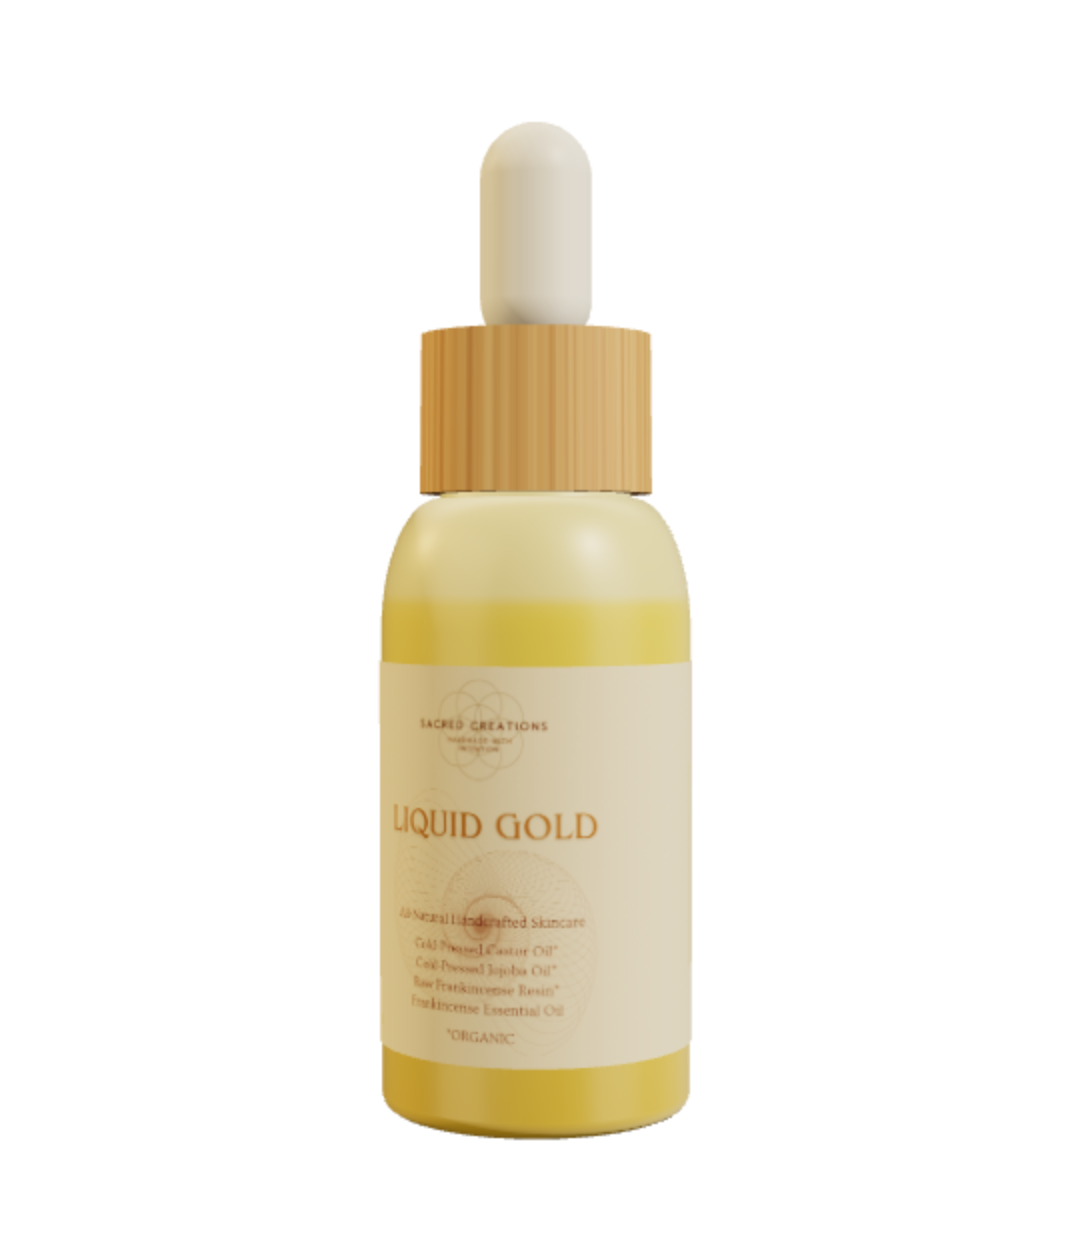
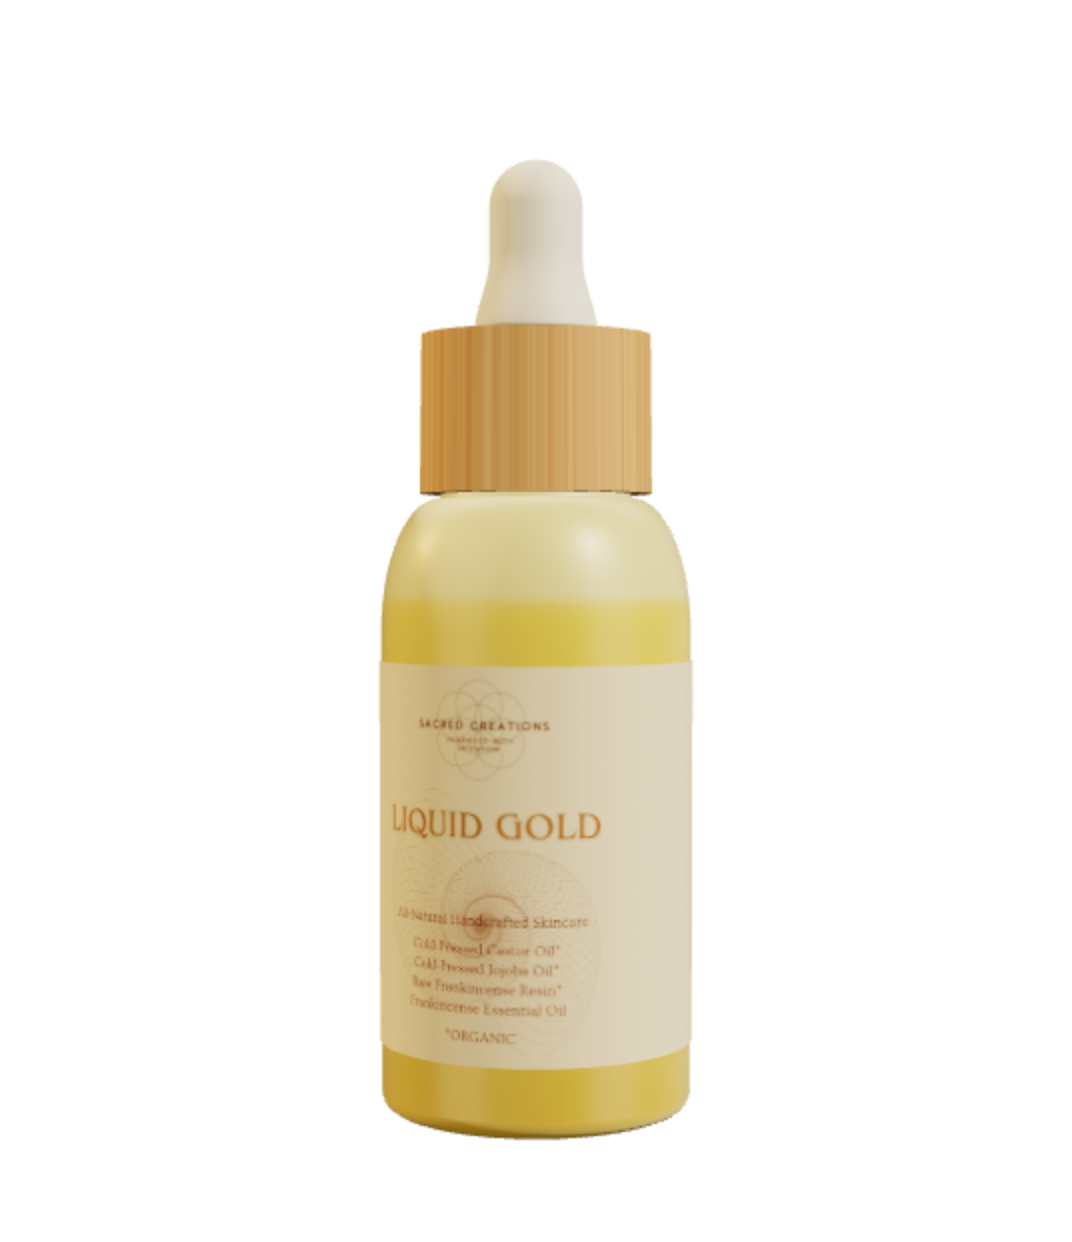
Real dropper bulb shape and tap-to-turn 3D on phones
Bulb is now a lathe measured from the product photo (flared base, slim
body, round top) instead of a capsule. Phones show the poster with a
Turn it in 3D button that loads the scene on demand; sideways swipes
turn the bottle and vertical swipes still scroll.

Claude-Session: https://claude.ai/code/session_01WmGr7QLLCLSmy45GpBi3JL

Changed region(s): [[0.431, 0.0918, 0.5541, 0.2754], [0.4618, 0.6425, 0.5541, 0.6731], [0.3694, 0.6425, 0.431, 0.6731]]

diff --git a/components/three/BottleShowcase.tsx b/components/three/BottleShowcase.tsx
@@ -9,13 +9,11 @@ import { showcaseState } from "./showcaseState";
 
 const BottleScene = dynamic(() => import("./BottleScene"), { ssr: false });
 
-function canRun3D() {
-  if (window.matchMedia("(prefers-reduced-motion: reduce)").matches) return false;
-  // Phones get the poster: it keeps scroll smooth and pages fast on mid-range devices.
-  if (window.matchMedia("(max-width: 767px), (pointer: coarse)").matches) return false;
-  const nav = navigator as Navigator & { connection?: { saveData?: boolean }; deviceMemory?: number };
-  if (nav.connection?.saveData) return false;
-  if ((nav.deviceMemory ?? 8) < 4 || (navigator.hardwareConcurrency ?? 8) < 4) return false;
+type Mode = "auto" | "tap" | "poster";
+
+// Desktop loads the live bottle automatically. Phones show the poster with a "Turn it in 3D" button,
+// so the page stays fast and the 3D only loads for people who ask for it.
+function hasWebGL2() {
   try {
     return !!document.createElement("canvas").getContext("webgl2");
   } catch {
@@ -23,10 +21,19 @@ function canRun3D() {
   }
 }
 
-// Poster first (a render of this same model); the live, drag-to-turn bottle loads only when the
-// section approaches the viewport on a capable desktop, and fades in once its first frame is drawn.
+// Creating a test WebGL context is costly on phones, so it only happens for desktops and on tap.
+function pickMode(): Mode {
+  if (window.matchMedia("(max-width: 767px), (pointer: coarse)").matches) return "tap";
+  if (window.matchMedia("(prefers-reduced-motion: reduce)").matches) return "tap";
+  const nav = navigator as Navigator & { connection?: { saveData?: boolean }; deviceMemory?: number };
+  if (nav.connection?.saveData) return "tap";
+  if ((nav.deviceMemory ?? 8) < 4 || (navigator.hardwareConcurrency ?? 8) < 4) return "tap";
+  return hasWebGL2() ? "auto" : "poster";
+}
+
 export function BottleShowcase() {
   const wrap = useRef<HTMLDivElement>(null);
+  const [mode, setMode] = useState<Mode>("poster");
   const [enabled, setEnabled] = useState(false);
   const [visible, setVisible] = useState(false);
   const [ready, setReady] = useState(false);
@@ -34,11 +41,12 @@ export function BottleShowcase() {
   useEffect(() => {
     const el = wrap.current;
     if (!el) return;
-    const capable = canRun3D();
+    const m = pickMode();
+    setMode(m);
     const io = new IntersectionObserver(
       ([e]) => {
         setVisible(e.isIntersecting);
-        if (e.isIntersecting && capable) setEnabled(true);
+        if (e.isIntersecting && m === "auto") setEnabled(true);
       },
       { rootMargin: "300px" },
     );
@@ -57,10 +65,11 @@ export function BottleShowcase() {
     };
   }, []);
 
-  // Mouse drag turns the bottle. Touch is ignored so the page always scrolls.
+  // Sideways drag turns the bottle. touch-action: pan-y leaves vertical swipes to the page, so a
+  // phone can always scroll past it.
   const lastX = useRef(0);
   const onPointerDown = (e: React.PointerEvent) => {
-    if (e.pointerType !== "mouse" || !ready) return;
+    if (!ready) return;
     showcaseState.dragging = true;
     lastX.current = e.clientX;
     (e.target as HTMLElement).setPointerCapture(e.pointerId);
@@ -91,8 +100,27 @@ export function BottleShowcase() {
       />
       {enabled && (
         <div className={`absolute inset-0 transition-opacity duration-700 ${ready ? "opacity-100" : "opacity-0"}`}>
-          <BottleScene active={visible} onReady={() => setReady(true)} />
+          <BottleScene active={visible} mobile={mode === "tap"} onReady={() => setReady(true)} />
         </div>
+      )}
+      {mode === "tap" && !enabled && (
+        <button
+          type="button"
+          onClick={() => (hasWebGL2() ? setEnabled(true) : setMode("poster"))}
+          className="absolute bottom-2 left-1/2 inline-flex min-h-11 -translate-x-1/2 items-center gap-2 rounded-full border border-copper/40 bg-parchment/90 px-5 text-sm tracking-[0.12em] text-copper-deep uppercase shadow-sm backdrop-blur"
+        >
+          <svg viewBox="0 0 24 24" className="h-4 w-4" fill="none" stroke="currentColor" strokeWidth="1.6" aria-hidden>
+            <path d="M3 12a9 4 0 1 0 18 0 9 4 0 1 0-18 0" />
+            <path d="M18 9l3 3-3 3" />
+          </svg>
+          Turn it in 3D
+        </button>
+      )}
+      {enabled && !ready && (
+        <p className="absolute bottom-4 left-1/2 -translate-x-1/2 text-sm text-muted" role="status">Loading 3D…</p>
+      )}
+      {mode === "tap" && ready && (
+        <p className="absolute bottom-3 left-1/2 -translate-x-1/2 text-xs tracking-[0.12em] text-muted uppercase">Swipe sideways to turn</p>
       )}
     </div>
   );

diff --git a/components/three/LiquidGoldBottle.tsx b/components/three/LiquidGoldBottle.tsx
@@ -47,6 +47,23 @@ function frostedGlass() {
   return geo;
 }
 
+// Rubber bulb measured from the fence photo: flared base where it meets the collar, slim straight
+// body, round top. Heights relative to the collar's top face.
+function bulbProfile() {
+  const pts: THREE.Vector2[] = [new THREE.Vector2(0, 0)];
+  for (let i = 0; i <= 10; i++) {
+    const y = (i / 10) * 0.6;
+    const t = THREE.MathUtils.smoothstep(y, 0, 0.5);
+    pts.push(new THREE.Vector2(THREE.MathUtils.lerp(0.4, 0.3, t), y));
+  }
+  pts.push(new THREE.Vector2(0.3, 0.83));
+  for (let i = 1; i <= 12; i++) {
+    const a = (i / 12) * (Math.PI / 2);
+    pts.push(new THREE.Vector2(Math.cos(a) * 0.3, 0.83 + Math.sin(a) * 0.3));
+  }
+  return pts;
+}
+
 function bambooTexture() {
   const c = document.createElement("canvas");
   c.width = 1024;
@@ -58,9 +75,9 @@ function bambooTexture() {
   const rand = () => ((seed = (seed * 16807) % 2147483647) / 2147483647);
   for (let i = 0; i < 260; i++) {
     const x = rand() * c.width;
-    const w = 1 + rand() * 6;
+    const w = 0.6 + rand() * 3.5;
     const light = rand() > 0.5;
-    g.fillStyle = light ? `rgba(240,205,150,${0.15 + rand() * 0.3})` : `rgba(150,95,45,${0.08 + rand() * 0.22})`;
+    g.fillStyle = light ? `rgba(245,214,165,${0.15 + rand() * 0.3})` : `rgba(196,112,48,${0.1 + rand() * 0.3})`;
     g.fillRect(x, 0, w, c.height);
   }
   const tex = new THREE.CanvasTexture(c);
@@ -79,10 +96,13 @@ export function LiquidGoldBottle() {
     tex.anisotropy = 8;
   });
 
-  const { glass, bamboo } = useMemo(() => ({ glass: frostedGlass(), bamboo: bambooTexture() }), []);
+  const { glass, bamboo, bulb } = useMemo(
+    () => ({ glass: frostedGlass(), bamboo: bambooTexture(), bulb: new THREE.LatheGeometry(bulbProfile(), 64) }),
+    [],
+  );
 
-  // The label art is ~2.5:1 and wraps ~96% of the bottle; centre the front panel (u ≈ 0.29) on the camera.
-  const labelArc = Math.PI * 2 * 0.96;
+  // The label art is ~2.5:1 and wraps almost all the way round; centre the front panel (u ≈ 0.29) on the camera.
+  const labelArc = Math.PI * 2 * 0.99;
   const labelStart = -0.29 * labelArc;
 
   // ?poster freezes the bottle front-on, for rendering public/posters/liquid-gold-3d.png.
@@ -137,9 +157,8 @@ export function LiquidGoldBottle() {
         <meshStandardMaterial color="#c99a5e" roughness={0.6} />
       </mesh>
       {/* white bulb */}
-      <mesh position={[0, 5.62, 0]}>
-        <capsuleGeometry args={[0.36, 0.78, 16, 48]} />
-        <meshPhysicalMaterial color="#f6f3ec" roughness={0.42} sheen={0.4} sheenColor="#ffffff" envMapIntensity={0.7} />
+      <mesh geometry={bulb} position={[0, 5.0, 0]}>
+        <meshPhysicalMaterial color="#f4f1ea" roughness={0.55} sheen={0.5} sheenColor="#ffffff" envMapIntensity={0.7} />
       </mesh>
     </group>
   );

diff --git a/components/three/BottleScene.tsx b/components/three/BottleScene.tsx
@@ -8,10 +8,11 @@ import { LiquidGoldBottle } from "./LiquidGoldBottle";
 type Props = {
   active: boolean;
   onReady: () => void;
+  mobile?: boolean;
 };
 
-export default function BottleScene({ active, onReady }: Props) {
-  const [dpr, setDpr] = useState(1.75);
+export default function BottleScene({ active, onReady, mobile = false }: Props) {
+  const [dpr, setDpr] = useState(mobile ? 1.5 : 1.75);
 
   return (
     <Canvas

diff --git a/docs/client-brief.md b/docs/client-brief.md
@@ -3,7 +3,7 @@
 Your answers are kept as you gave them. Everything marked **(site)** was read from the public store on 2026-10-19, with the page it came from. `TODO:` marks anything not on the site that the client has to answer. Nothing here is invented.
 
 ## ⚠ Fix on the live store first
-- **The only product shows as sold out.** The Liquid Gold product page says "Variant sold out or unavailable" / "Sold out", while the catalog page says "In stock (1)". Any traffic we send right now can't buy. Check inventory tracking on the 1 oz variant in Shopify admin. (site: /products/liquid-gold, /collections/all)
+- ~~The only product shows as sold out.~~ Corrected 2026-10-19: Liquid Gold is **in stock**. The store's live product API (/products/liquid-gold.js) returns `available: true` for the 1 oz variant. The "Sold out" text came from a stale copy of the page served to automated fetchers, not what shoppers see.
 - **Product is tagged "Sample Product"** and its weight is **0.0 lb**, so calculated USPS shipping may be wrong. (site: /products/liquid-gold.json)
 - **Product description contains leftover citation markup** (stray citation spans, empty superscripts, a stray meta charset tag), likely pasted from an AI tool. Clean it up in admin. (site: /products/liquid-gold.json)
 - **Product images have no alt text.** (site: /products/liquid-gold.json)
@@ -43,7 +43,7 @@ Your answers are kept as you gave them. Everything marked **(site)** was read fr
 - Fonts: `TODO:` same, Shopify admin > Theme settings > Typography, or the client.
 - Vibe in 3 words: hydrating, clean luxury, intentional
   - (site) Supporting language the store already uses: "Intentional, Natural, Heart-crafted", "vibrational elixir", ritual, slowing down, prayer, altar.
-- 2-3 sites they love: `TODO:` client
+- 2-3 sites they love: [animamundiherbals.com](https://animamundiherbals.com/) (client reference, 2026-10-19: warm, earthy, editorial wellness feel with styled natural photography). `TODO:` what specifically she likes about it, and any others.
 - Anything they hate: `TODO:` client
 
 ## Proof
